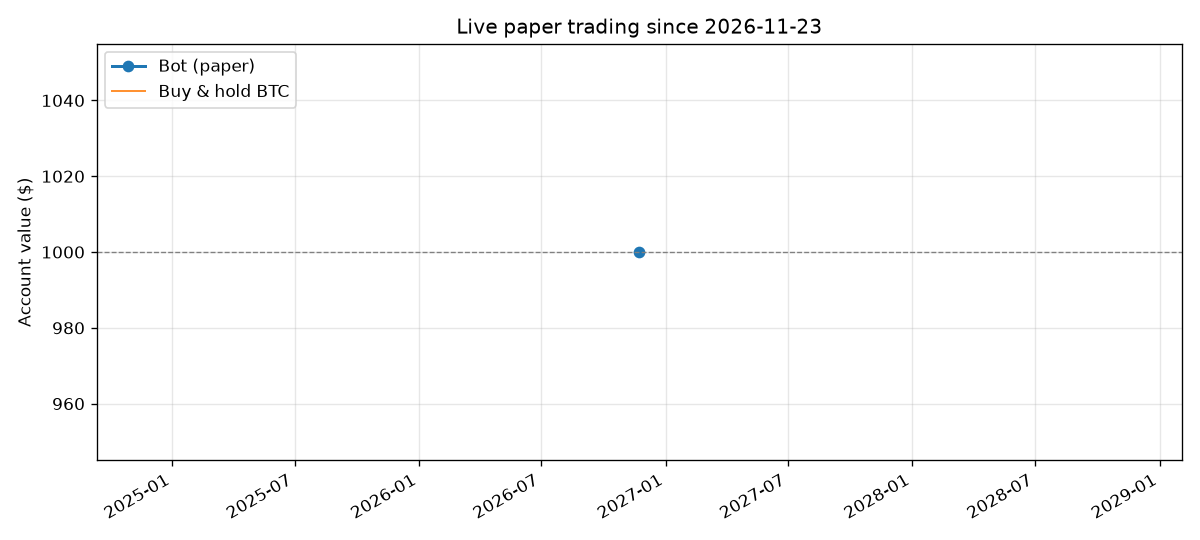
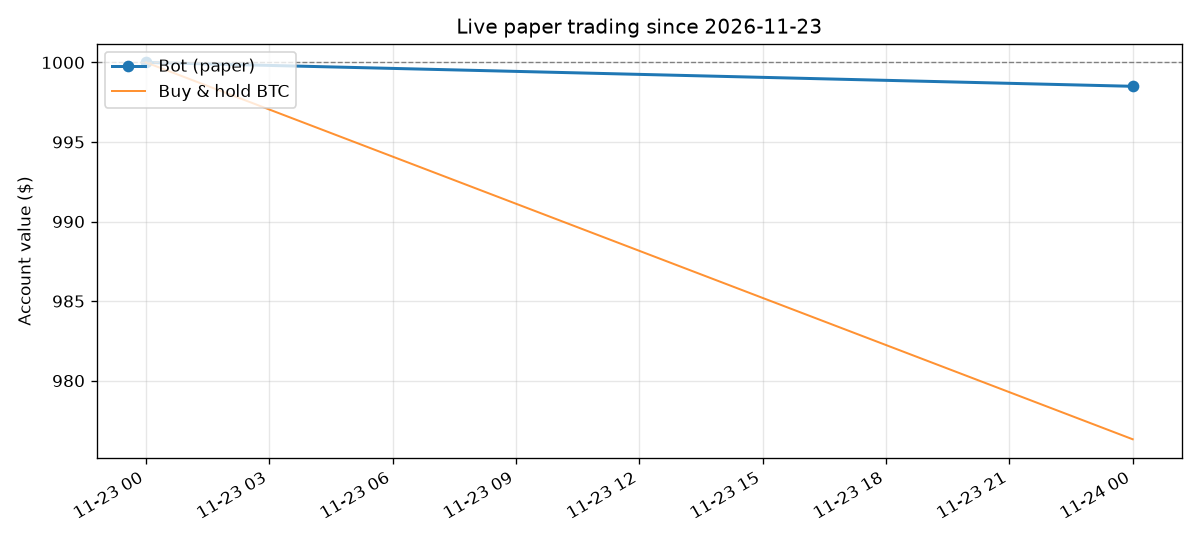
bot: paper-trading update 2026-11-25

diff --git a/live/README.md b/live/README.md
@@ -1,15 +1,15 @@
 # Live paper-trading status
 
-_Updated automatically by GitHub Actions. Last candle: 2026-11-23 00:00:00+00:00_
+_Updated automatically by GitHub Actions. Last candle: 2026-11-24 00:00:00+00:00_
 
 | | Bot | Buy & hold |
 |---|---:|---:|
-| Account value | $1,000.00 | $1,000.00 |
-| Return | +0.00% | +0.00% |
+| Account value | $998.50 | $976.32 |
+| Return | -0.15% | -2.37% |
 
-- Running since **2026-11-23** (1 daily candles)
-- Current position: **CASH** (latest P(up) = 0.549)
-- Trades so far: **0**
+- Running since **2026-11-23** (2 daily candles)
+- Current position: **LONG BTC** (latest P(up) = 0.573)
+- Trades so far: **1**
 
 ![live equity](equity.png)
 
